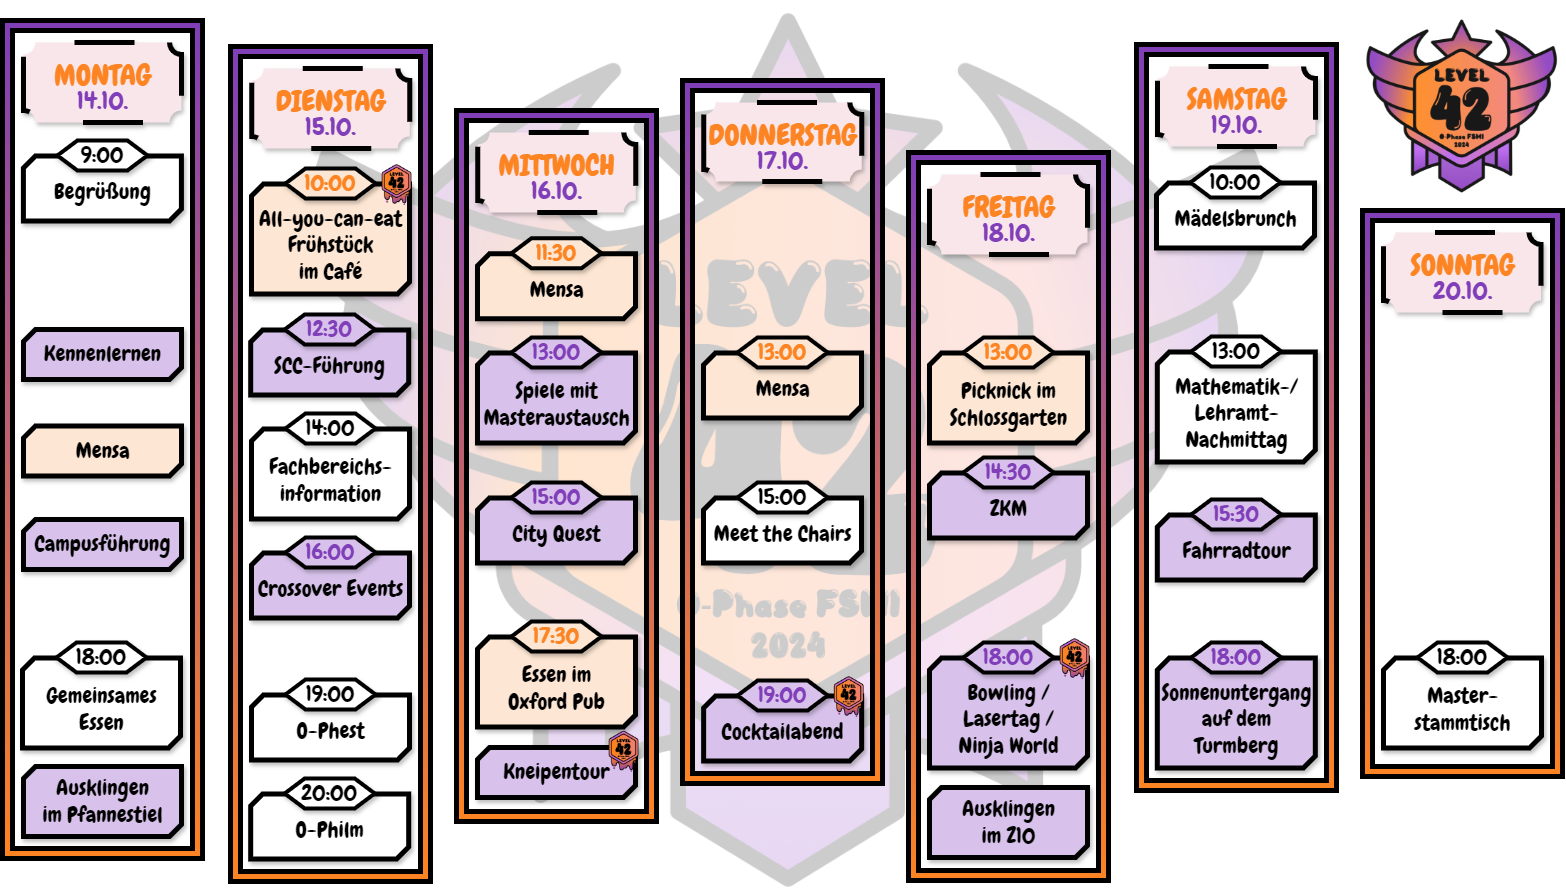
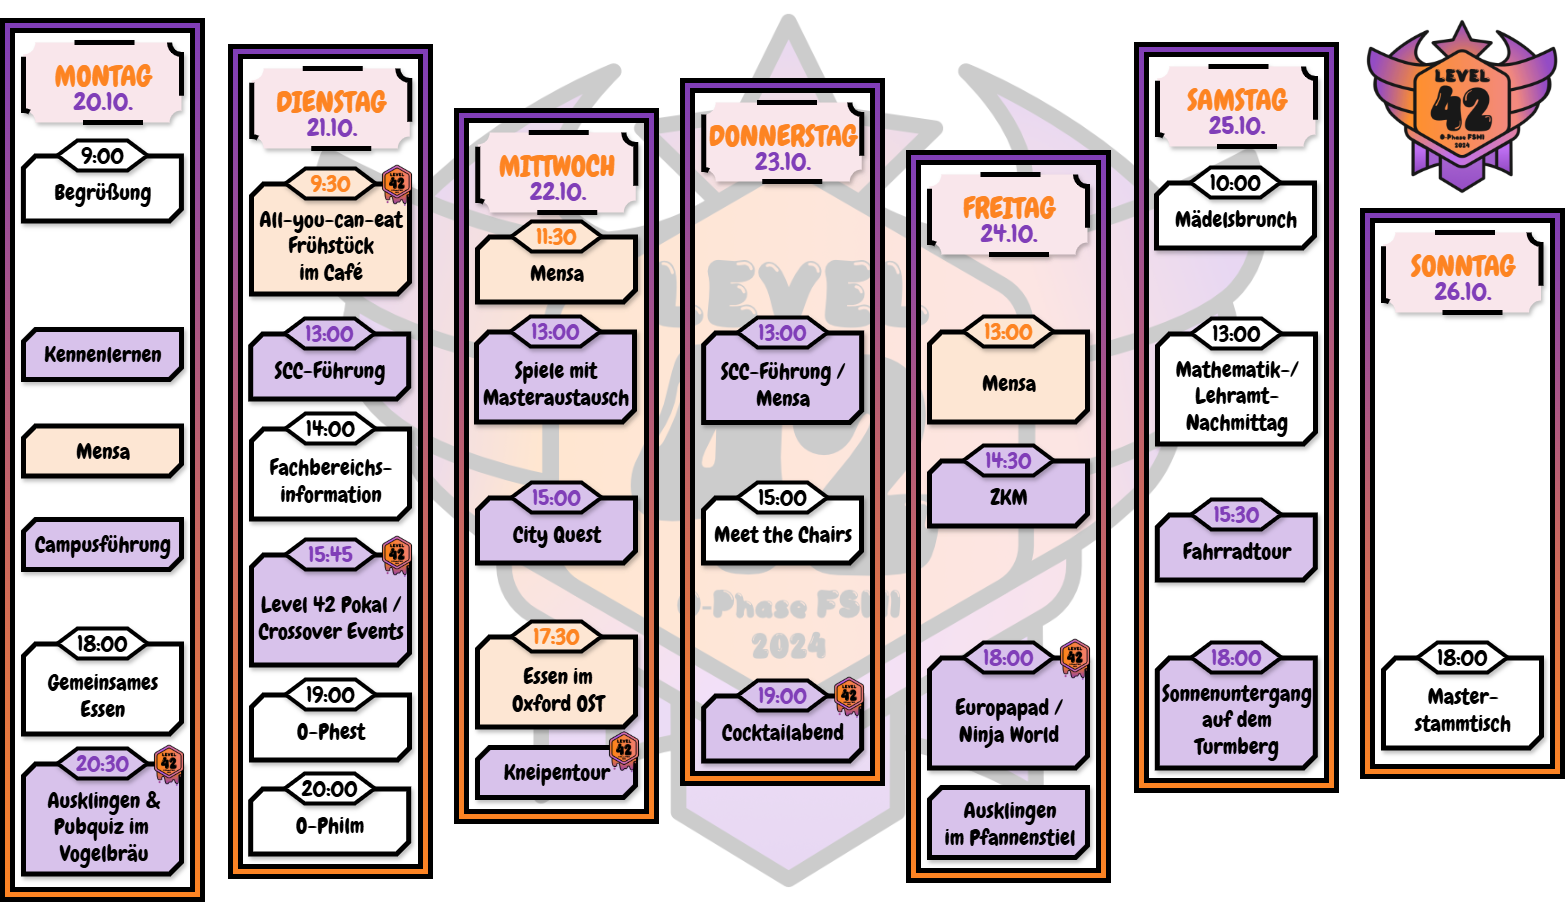
update week shedule img + add discord join button + switch tutors and plan in structure

Changed region(s): [[0.0, 0.0303, 1.0, 1.0], [0.0, 0.0303, 0.1227, 0.2727]]

diff --git a/app/pages/[...home].vue b/app/pages/[...home].vue
@@ -35,6 +35,31 @@
     </div>
   </section>
 
+  <!-- Program -->
+  <section id="program" class="mx-auto">
+    <SectionTitle>{{ $t('home.program.title') }}</SectionTitle>
+    <div
+      class="text-prime-600 dark:text-prime-400 mx-5 mb-4 flex flex-col items-center justify-center gap-6 text-center text-lg font-medium md:flex-row"
+    >
+      <a
+        href="https://calendar.google.com/calendar/embed?height=600&wkst=2&ctz=Europe%2FBerlin&bgcolor=%23EF6C00&showTz=0&mode=WEEK&showTabs=0&showCalendars=0&showTitle=0&showPrint=0&showDate=0&showNav=0&src=ZTkwODM3Y2ZmZWI0ZGI3OTE4M2Y3ZDc4NDc0NGNiZjdhZDZhNjQ5NjE2M2E4YzNmMmJmYTk0ODdhN2MyM2Q2ZUBncm91cC5jYWxlbmRhci5nb29nbGUuY29t&color=%23EF6C00&dates=20241014/20241020"
+        target="_blank"
+        >{{ $t('home.program.plan.detailed') }}</a
+      >
+      <a
+        href="https://calendar.google.com/calendar/u/0?cid=ZTkwODM3Y2ZmZWI0ZGI3OTE4M2Y3ZDc4NDc0NGNiZjdhZDZhNjQ5NjE2M2E4YzNmMmJmYTk0ODdhN2MyM2Q2ZUBncm91cC5jYWxlbmRhci5nb29nbGUuY29t"
+        target="_blank"
+        >{{ $t('home.program.plan.google') }}</a
+      >
+      <a
+        href="https://calendar.google.com/calendar/ical/e90837cffeb4db79183f7d784744cbf7ad6a6496163a8c3f2bfa9487a7c23d6e%40group.calendar.google.com/public/basic.ics"
+        >{{ $t('home.program.plan.ical') }}</a
+      >
+    </div>
+
+    <img class="m-auto px-12" src="/img/wochenplan.png" alt="wochenplan" />
+  </section>
+
   <!-- Tutors -->
   <section id="tutors" class="mx-auto px-5">
     <SectionTitle>{{ $t('home.tutors.title') }}</SectionTitle>
@@ -133,34 +158,9 @@
     </ul>
   </section>
 
-  <!-- Program -->
-  <section id="program" class="mx-auto">
-    <SectionTitle>{{ $t('home.program.title') }}</SectionTitle>
-    <div
-      class="text-prime-600 dark:text-prime-400 mx-5 mb-4 flex flex-col items-center justify-center gap-6 text-center text-lg font-medium md:flex-row"
-    >
-      <a
-        href="https://calendar.google.com/calendar/embed?height=600&wkst=2&ctz=Europe%2FBerlin&bgcolor=%23EF6C00&showTz=0&mode=WEEK&showTabs=0&showCalendars=0&showTitle=0&showPrint=0&showDate=0&showNav=0&src=ZTkwODM3Y2ZmZWI0ZGI3OTE4M2Y3ZDc4NDc0NGNiZjdhZDZhNjQ5NjE2M2E4YzNmMmJmYTk0ODdhN2MyM2Q2ZUBncm91cC5jYWxlbmRhci5nb29nbGUuY29t&color=%23EF6C00&dates=20241014/20241020"
-        target="_blank"
-        >{{ $t('home.program.plan.detailed') }}</a
-      >
-      <a
-        href="https://calendar.google.com/calendar/u/0?cid=ZTkwODM3Y2ZmZWI0ZGI3OTE4M2Y3ZDc4NDc0NGNiZjdhZDZhNjQ5NjE2M2E4YzNmMmJmYTk0ODdhN2MyM2Q2ZUBncm91cC5jYWxlbmRhci5nb29nbGUuY29t"
-        target="_blank"
-        >{{ $t('home.program.plan.google') }}</a
-      >
-      <a
-        href="https://calendar.google.com/calendar/ical/e90837cffeb4db79183f7d784744cbf7ad6a6496163a8c3f2bfa9487a7c23d6e%40group.calendar.google.com/public/basic.ics"
-        >{{ $t('home.program.plan.ical') }}</a
-      >
-    </div>
-
-    <img class="m-auto px-8" src="/img/wochenplan.png" alt="wochenplan" />
-  </section>
-
   <!-- Links -->
   <section id="links" class="mx-auto mb-10 px-10">
-    <SectionTitle v-html="$t('home.links.title')" />
+    <SectionTitle>{{ $t('home.links.title') }}</SectionTitle>
     <div
       class="grid grid-cols-1 space-y-12 md:grid-cols-3 md:space-y-0 md:space-x-12"
     >

diff --git a/app/components/layout/nav.vue b/app/components/layout/nav.vue
@@ -11,10 +11,10 @@
             <a href="/#about" v-html="$t('nav.about')" />
           </li>
           <li class="hidden sm:list-item">
-            <a href="/#tutors">{{ $t('nav.tutors') }}</a>
+            <a href="/#program">{{ $t('nav.program') }}</a>
           </li>
           <li class="hidden sm:list-item">
-            <a href="/#program">{{ $t('nav.program') }}</a>
+            <a href="/#tutors">{{ $t('nav.tutors') }}</a>
           </li>
           <li class="hidden sm:list-item">
             <a href="/#links">{{ $t('nav.links') }}</a>
@@ -24,7 +24,8 @@
         </ul>
       </div>
       <div class="bg-prime-500 dark:bg-prime-400 h-1 px-1" />
-      <!--<ButtonJoin label="Discord" href="https://discord.gg/KQrmnRcqVu" />-->
+      <ButtonJoin label="Discord" href="https://discord.gg/KQrmnRcqVu" />
     </nav>
   </header>
 </template>
+<script setup lang="ts"></script>

diff --git a/app/components/button/join.vue b/app/components/button/join.vue
@@ -5,7 +5,7 @@
         :href="href"
         target="_blank"
         aria-label="Join our Discord server (opens in a new tab)"
-        class="group to-prime-500 relative inline-flex transform items-center gap-3 rounded-tr-lg rounded-bl-lg bg-gradient-to-r from-orange-600 px-5 py-2 font-semibold text-white italic shadow-2xl transition hover:scale-105 focus-visible:ring-4 focus-visible:ring-orange-300 focus-visible:ring-offset-2 motion-safe:animate-[bounce_1.6s_infinite]"
+        class="group to-prime-500 relative inline-flex transform items-center gap-3 rounded-tr-lg rounded-bl-lg bg-gradient-to-r from-orange-600 px-5 py-2 font-semibold text-white italic shadow-2xl transition hover:scale-105 focus-visible:ring-4 focus-visible:ring-orange-300 focus-visible:ring-offset-2"
       >
         <span
           class="absolute -top-2 -left-4 -rotate-12 rounded-sm bg-white px-2 py-0.5 text-xs font-medium tracking-wide text-orange-600 uppercase shadow-sm"

diff --git a/app/layouts/default.vue b/app/layouts/default.vue
@@ -1,6 +1,6 @@
 <template>
   <Body
-    class="font-montserrat text-second-900 selection:bg-prime-100 dark:bg-second-900 dark:selection:bg-prime-800 bg-white dark:text-white"
+    class="font-montserrat text-second-900 selection:bg-prime-100 dark:bg-second-900 dark:selection:bg-prime-800 overflow-x-hidden bg-white dark:text-white"
   />
   <div class="flex h-screen flex-col justify-between">
     <LayoutNav />